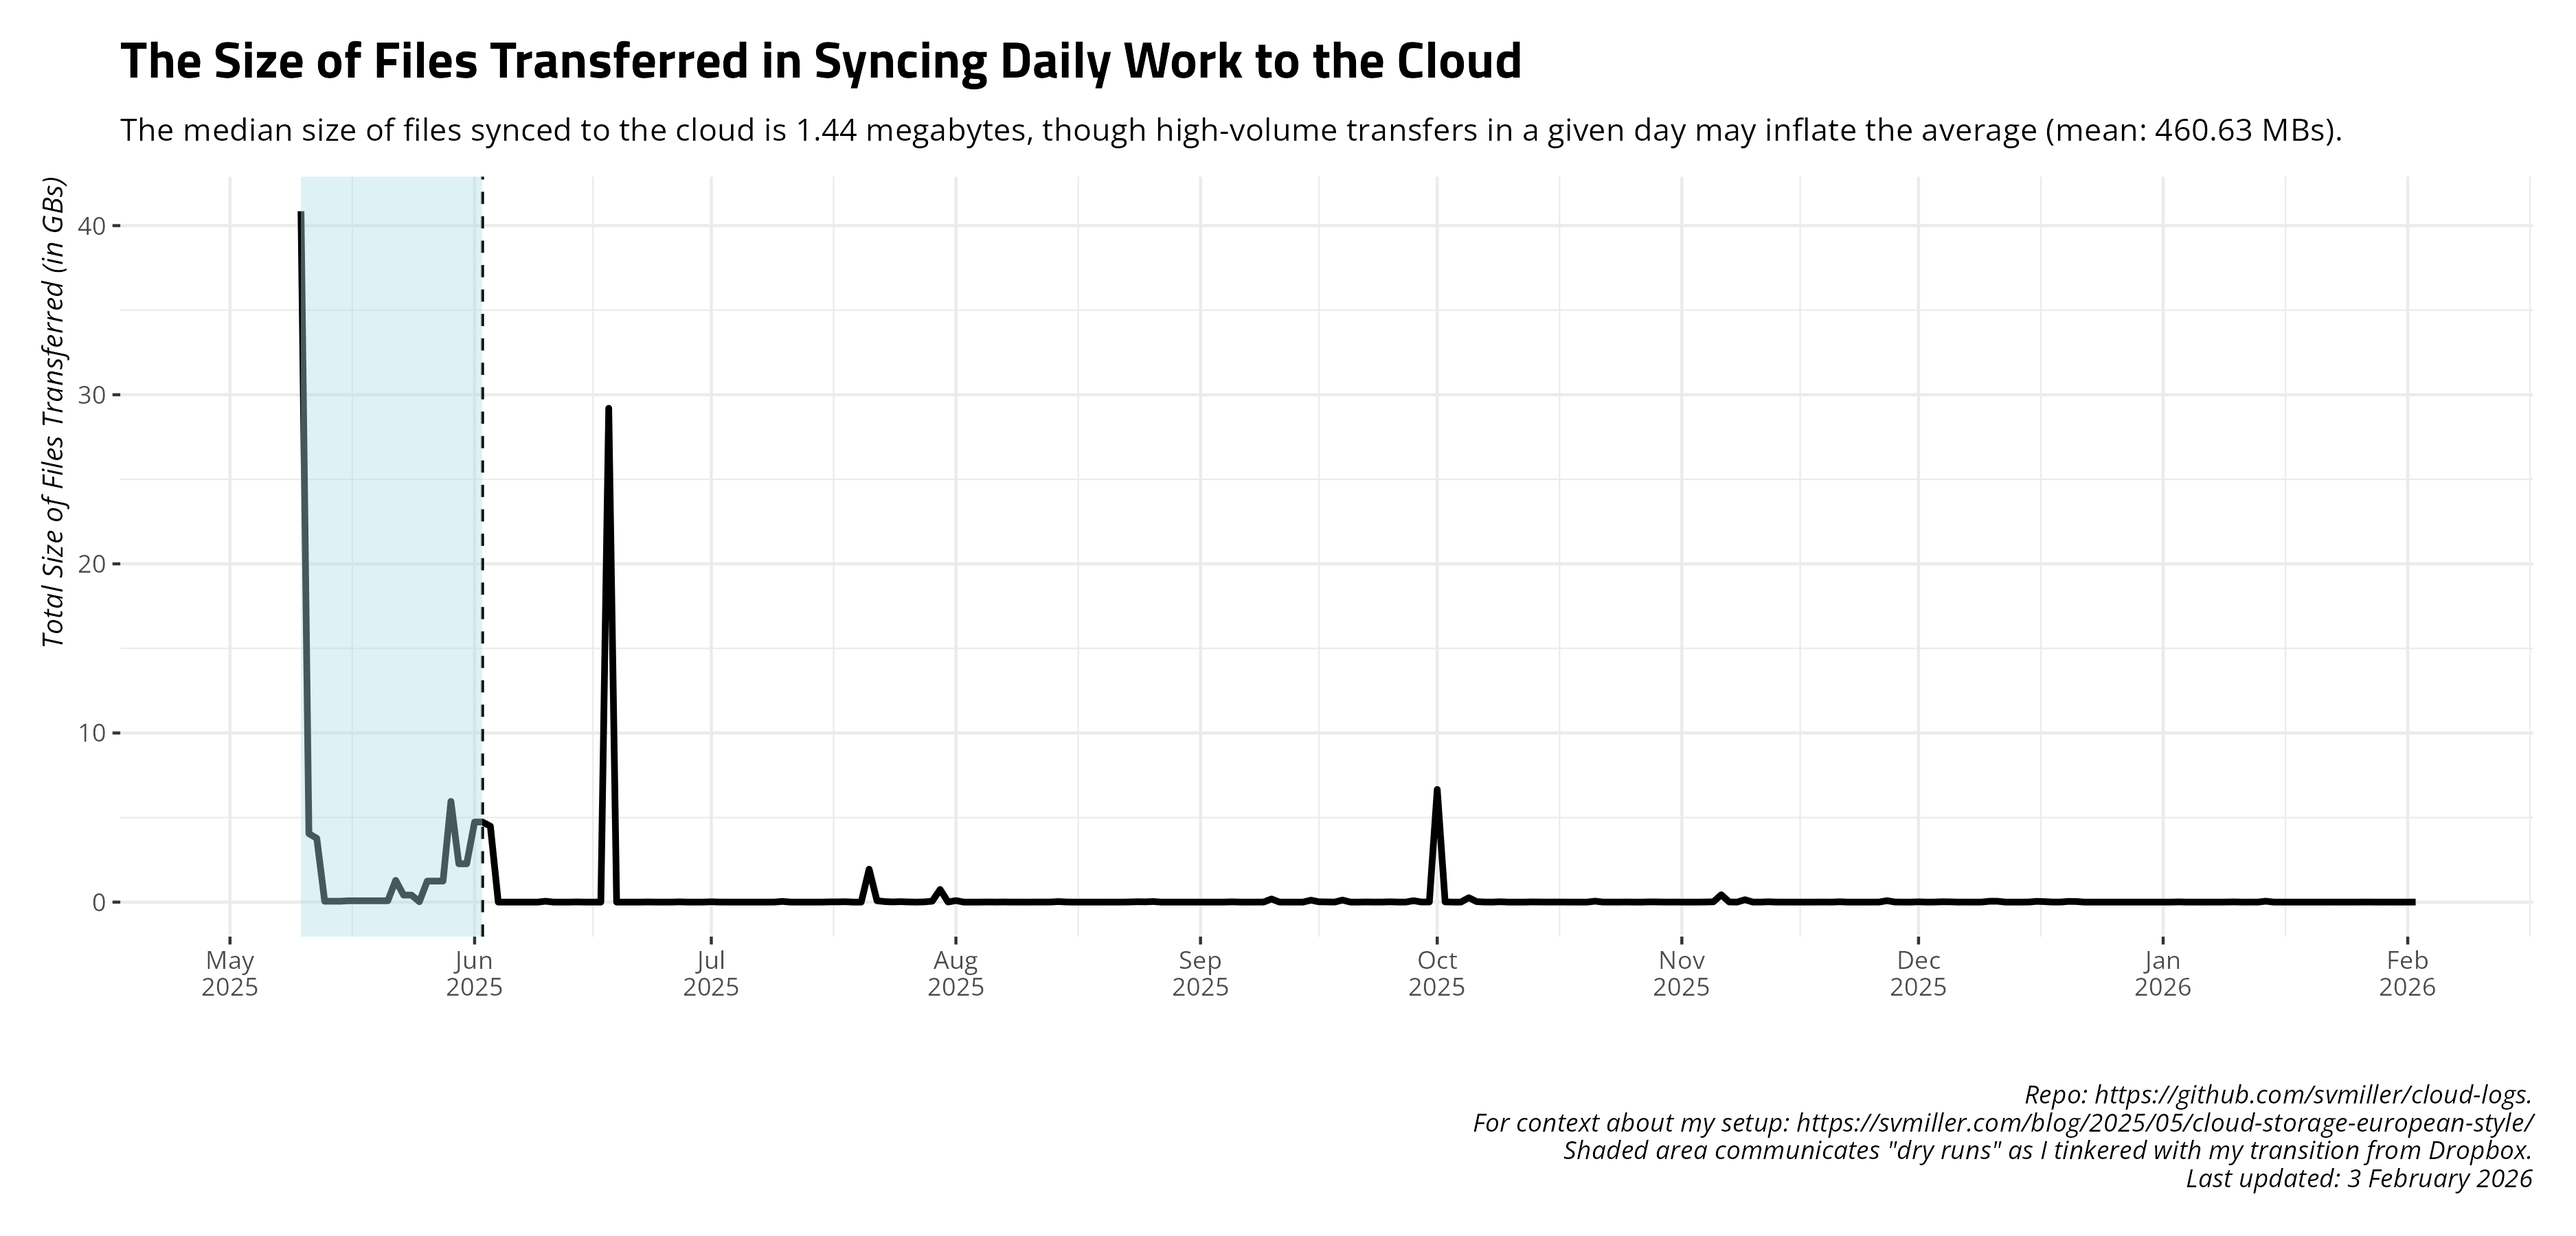
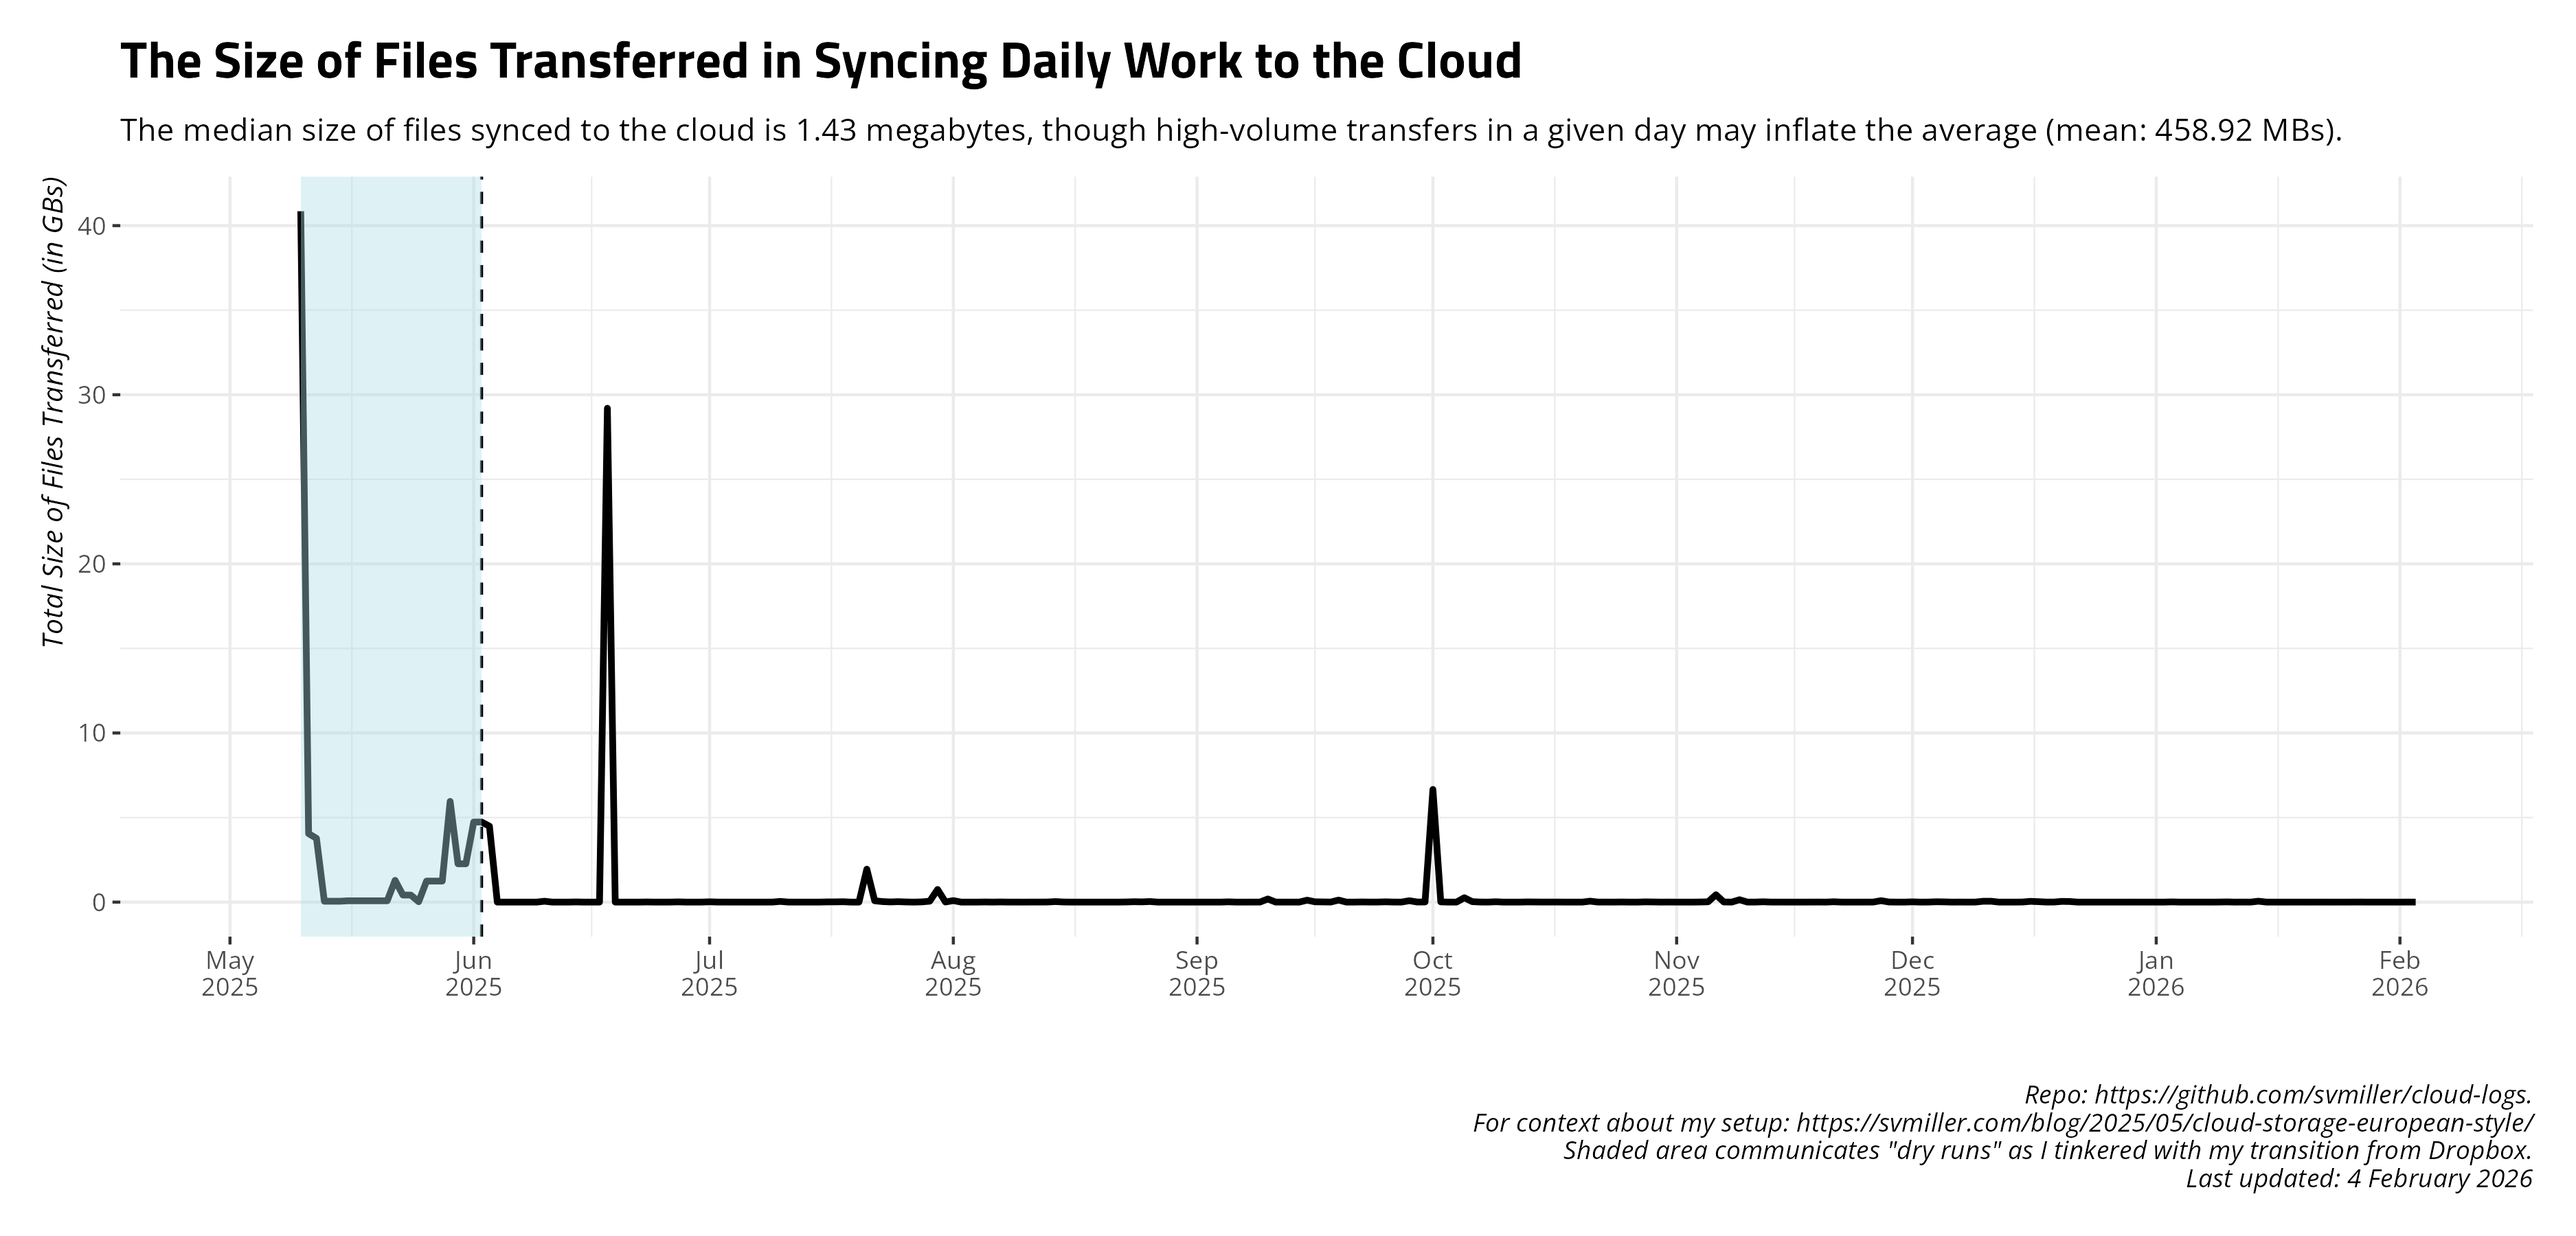
Date: 2026-02-04 09:00:22. Hi mom!

diff --git a/README.md b/README.md
@@ -27,17 +27,17 @@ and uploads to Github.
     #> # A tibble: 14 × 4
     #>    date       ftransfer stransfer   elapsed
     #>    <date>         <dbl> <chr>       <chr>  
-    #>  1 2026-01-20         8 8.384 KiB   5m42.6s
-    #>  2 2026-01-21         0 <NA>        6m20.7s
-    #>  3 2026-01-22        19 1.012 MiB   6m3.9s 
-    #>  4 2026-01-23         0 <NA>        7m7.9s 
-    #>  5 2026-01-24         0 <NA>        6m51.3s
-    #>  6 2026-01-25        25 115.706 KiB 7m2.1s 
-    #>  7 2026-01-26        24 1.873 MiB   5m13.4s
-    #>  8 2026-01-27        39 3.662 MiB   4m55.8s
-    #>  9 2026-01-28         0 <NA>        5m54.8s
-    #> 10 2026-01-29        69 972.004 KiB 5m46.3s
-    #> 11 2026-01-30        53 449.655 KiB 5m43.3s
-    #> 12 2026-01-31        11 107.900 KiB 5m34.8s
-    #> 13 2026-02-01         1 52.319 KiB  6m32.1s
-    #> 14 2026-02-02        22 2.544 MiB   5m52.9s
+    #>  1 2026-01-21         0 <NA>        6m20.7s
+    #>  2 2026-01-22        19 1.012 MiB   6m3.9s 
+    #>  3 2026-01-23         0 <NA>        7m7.9s 
+    #>  4 2026-01-24         0 <NA>        6m51.3s
+    #>  5 2026-01-25        25 115.706 KiB 7m2.1s 
+    #>  6 2026-01-26        24 1.873 MiB   5m13.4s
+    #>  7 2026-01-27        39 3.662 MiB   4m55.8s
+    #>  8 2026-01-28         0 <NA>        5m54.8s
+    #>  9 2026-01-29        69 972.004 KiB 5m46.3s
+    #> 10 2026-01-30        53 449.655 KiB 5m43.3s
+    #> 11 2026-01-31        11 107.900 KiB 5m34.8s
+    #> 12 2026-02-01         1 52.319 KiB  6m32.1s
+    #> 13 2026-02-02        22 2.544 MiB   5m52.9s
+    #> 14 2026-02-03        59 670.650 KiB 6m3.7s
